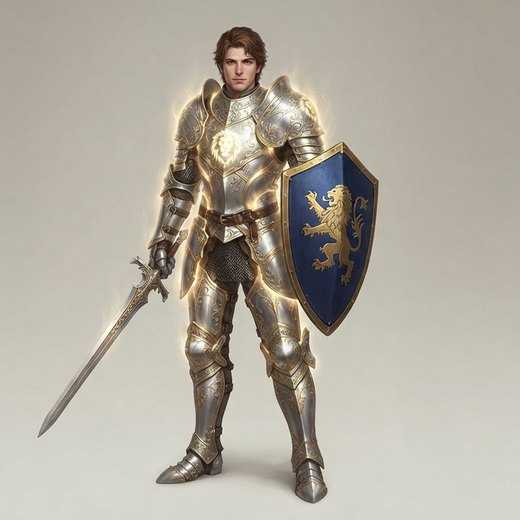
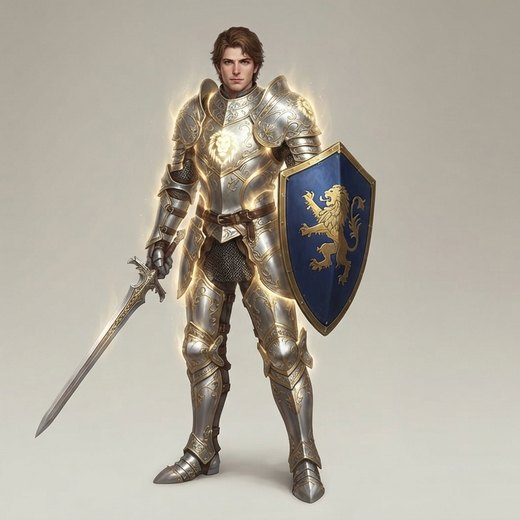
Kalisto: enoten kader, novo ime in popravek zaznavanja
Varuhinja gozda se zdaj imenuje Kalisto. Slike obdelane z orodjem,
vseh šest 520x520, skupaj 188 kB.

Popravek v zaznavanju lika:
Slike te poti nosijo vodni žig "Classroom Quest" v kotu in okrasne
vejice ob robu. Ker sta tudi to "ne-ozadje", sta raztegnila okvir do
roba slike (pri 2.jpeg na 1332 od 1376 px) in žig je končal v kartici.
Zaznavanje zdaj upošteva le največji povezan sklop, torej sam lik.

Zaradi tega popravka so znova obdelane tudi prej narejene poti.

Pri tem sem zmaja pomotoma obdelal iz napačne mape: nove slike so v
viri/, na namizju pa je ostal star komplet. Obnovljen iz pravega vira.
Da se to ne ponovi, orodje zdaj zapiše izvor v viri/<pot>/IZVOR.txt.

Preverjeno: vseh 36 slik šestih obdelanih poti se naloži pri 520x520.

Changed region(s): [[0.0615, 0.0308, 0.7385, 0.9846]]

diff --git a/js/pustolovscina.js b/js/pustolovscina.js
@@ -40,7 +40,8 @@ const POTI = {
              'Mojstrica lokostrelka', 'Velika lokostrelka'],
   },
   narava: {
-    ime: 'Varuhinja gozda', barva: '#55A51C',
+    svojeOzadje: true, pripona: 'jpg',   // slike so celi prizori, ne izrezani liki
+    ime: 'Kalisto', barva: '#55A51C',
     nivoji: ['Novinka', 'Vajenka', 'Učenka', 'Adeptka', 'Mojstrica varuhinja', 'Nadduhovnica'],
   },
   vilinec: {

diff --git a/sw.js b/sw.js
@@ -1,4 +1,4 @@
-const CACHE = 'zaslon-v29';
+const CACHE = 'zaslon-v30';
 
 /** Lupina aplikacije. */
 const ASSETS = [

diff --git a/orodja/kader.py b/orodja/kader.py
@@ -14,9 +14,29 @@ def _maska(im, nasic=0.22, temno=0.45):
         return s > nasic or mx/255 < temno
     return [[1 if jeLik(px[x,y]) else 0 for y in range(h)] for x in range(w)], w, h
 
+def _najvecji_sklop(mask, w, h):
+    """Obdrži le največji povezan sklop. Vodni žigi in okraski v kotih
+    so ločeni od lika in bi sicer raztegnili okvir do roba slike."""
+    from collections import deque
+    oznaka = [[0]*h for _ in range(w)]
+    naj, najid, n = 0, 0, 0
+    for x in range(w):
+        for y in range(h):
+            if mask[x][y] and not oznaka[x][y]:
+                n += 1; q = deque([(x,y)]); oznaka[x][y] = n; vel = 0
+                while q:
+                    a,b = q.popleft(); vel += 1
+                    for na,nb in ((a+1,b),(a-1,b),(a,b+1),(a,b-1)):
+                        if 0<=na<w and 0<=nb<h and mask[na][nb] and not oznaka[na][nb]:
+                            oznaka[na][nb] = n; q.append((na,nb))
+                if vel > naj: naj, najid = vel, n
+    return [[1 if oznaka[x][y] == najid else 0 for y in range(h)] for x in range(w)]
+
+
 def okvir_lika(im, delez=0.06):
     """Meje lika po gostoti stolpcev in vrstic — senca in vinjeta ne štejeta."""
     mask, w, h = _maska(im)
+    mask = _najvecji_sklop(mask, w, h)
     stolpci = [sum(mask[x]) for x in range(w)]
     vrstice = [sum(mask[x][y] for x in range(w)) for y in range(h)]
     def meje(v):

diff --git a/orodja/kadriraj.py b/orodja/kadriraj.py
@@ -46,7 +46,14 @@ def main():
                                      'JPEG', quality=86, optimize=True)
         print(f"  {os.path.basename(f)} -> nivo_{nivo}.jpg")
 
-    kb = sum(os.path.getsize(f) for f in glob.glob(os.path.join(cilj, '*'))) // 1024
+    # Zapišemo, od kod slike prihajajo — sicer se ob ponovni obdelavi
+    # zlahka zgrabi napačna mapa (enkrat se je to že zgodilo pri zmaju).
+    with open(os.path.join(viri, 'IZVOR.txt'), 'w', encoding='utf-8') as f:
+        f.write(os.path.abspath(os.path.expanduser(izvor)) + '\n')
+        f.write(('obrnjeno' if obrnjeno else 'naravni vrstni red') + '\n')
+
+    kb = sum(os.path.getsize(f) for f in glob.glob(os.path.join(cilj, '*'))
+             if not f.endswith('.txt')) // 1024
     print(f"\n{pot}: 6 slik, {kb} kB, vse {STRAN}x{STRAN}")
     print("Ne pozabi dvigniti različice v sw.js.")
 
